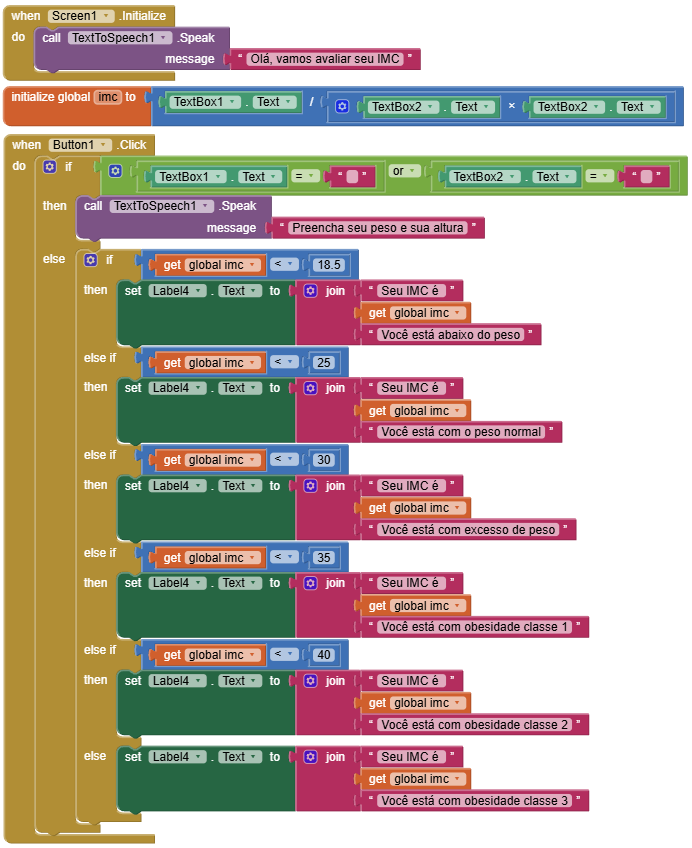
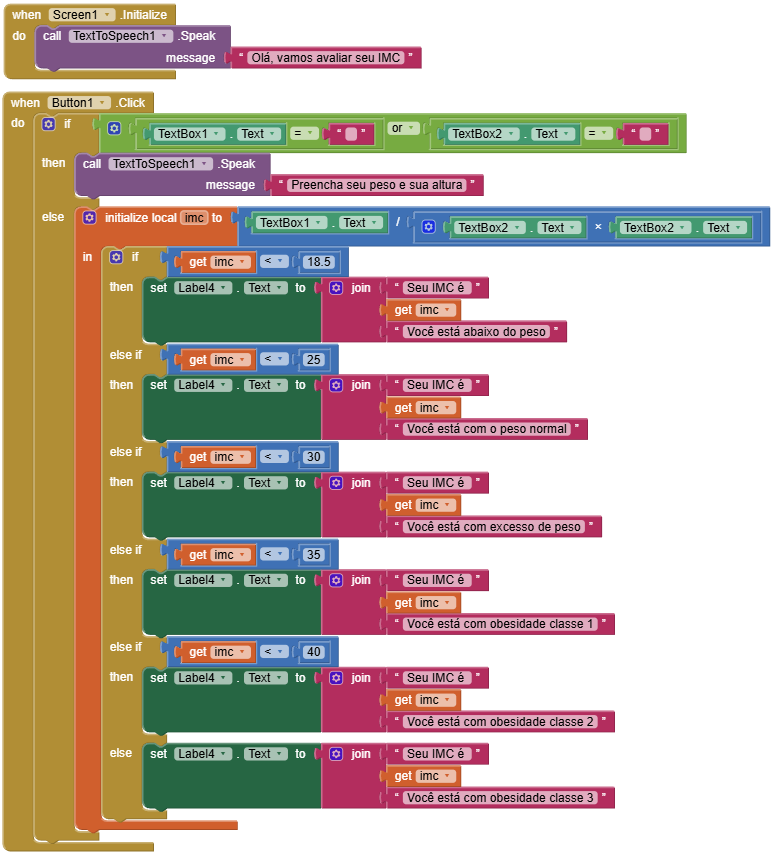
aula02

diff --git a/ds/3des/03-pdm1/aula02/README.md b/ds/3des/03-pdm1/aula02/README.md
@@ -1,6 +1,16 @@
-# Aula02 - Exercícios de Layout e Lógica [Meet](https://meet.google.com/jfm-nvty-gpv)
+# Aula02 - Exercícios de Layout e Lógica
 Projetos simples de uma página, com desafios para treinar a lógica em blocos
 
+## Demonstração
+Vamos programar em bloco uma calculadora de IMC, criando um novo projeto chamado **AvaliacaoIMC**
+<br>![IMC Layout](./imclayout.png)
+- Vamos validar com um if se os campos de entrada não estão em branco
+- Usar texto para fala para mensagems de boas vindas e de erro
+- Variável local para calcular o **imc**
+- if encadeado com else if para definir o diagnóstico
+<br>![IMC blocos](./imcbloco.png)
+
+## Desafios
 |Layout|Lógica|
 |-|-|
 |![Financiamentos](./financiamentos.png)|**Contextualização:** As taxas de juros continuam autíssimas dificultando a aquisição de bens e serviços. Antes de comprar um bem financiado como um carro, uma moto, um imóvel ou até mesmo um eletrodoméstico, é importante simular o valor das parcelas e o custo total do financiamento.<br>**Objetivo:** Desenvolver um aplicativo semelhante ao da imagem ao lado que recebe como entrada o valor do bem, o número de parcelas, a taxa de juros mensal e as taxas adicionais e exibe o valor da parcela e o Montante total do financiamento.|
